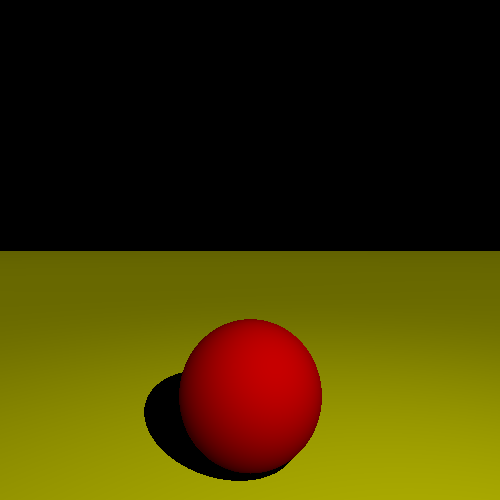
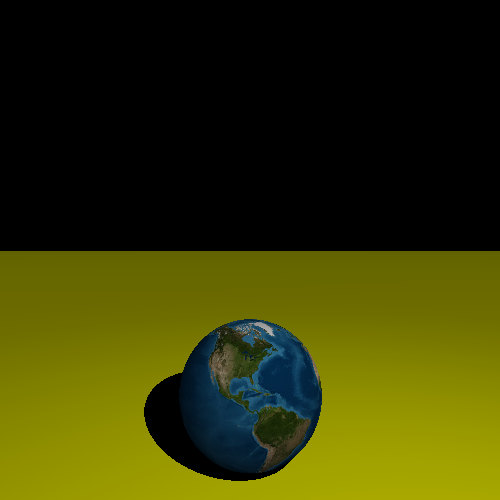
mise à jour avec la texture

Changed region(s): [[0.36, 0.63, 0.66, 0.96]]

diff --git a/sphere.py b/sphere.py
@@ -1,98 +1,124 @@
-from PIL import Image, ImageDraw
-from PIL import Image 
+from PIL import Image
 import numpy as np
 import math
 
-
 class Sphere:
-    def __init__(self, rayon, centre, couleur):
+  def __init__(self, rayon, centre, couleur):
       """
-
-      #==========================================================================================#
-      Une sphère est definie par:
+      Une sphère est définie par :
         un <rayon> (entier)
         un <centre> (l, m, n)
         equation paramétrique: 
-                      (P - C).(P - C) = r² <=> (x - l)² + (y - m)² + (z - n)² = r²
-                      |
-                      --> avec P = (x, y, z) le point du vecteur PC qui est un point du cercle
-      #==========================================================================================#
-      Passage en paramètre de la classe de <draw> pour 
-      pouvoir dessiner dans la bonne image de PIL
-
+                    (P - C).(P - C) = r² <=> (x - l)² + (y - m)² + (z - n)² = r²
+                    |
+                    --> avec P = (x, y, z) le point du vecteur PC qui est un point du cercle
+        Passage en paramètre de la classe de <draw> pour 
+        pouvoir dessiner dans la bonne image de PIL
       """
       self.rayon = rayon
       self.centre = centre
       self.couleur = couleur
-      #self.reflection = reflection
-      
-    def find_intersection(self,pixel_eval,rayon_vue):
+
+  def find_intersection(self, pixel_eval, rayon_vue):
       """
-      
       P -  <=> t²*B*B - 2*t*B * (C - Q) + (C - Q) * (C - Q) - r² = 0
       Il faut résoudre cette équation qui est de la forme:
-            ax² + bx + c = 0
+        ax² + bx + c = 0
       Donc on doit trouver t qui est notre point d'intersection
-            DELTA = b² - 4ac
-            |
-            |
-            ------> a = t²*B*B => Doit être égal à 1
-                    b = -2*t*B * (C - Q)
-                    c = (C - Q) * (C - Q) - r²
-            |
-            |
-            ------> C:= Centre de la sphère
-                    B:= Rayon de vue
-                    Q:= Pixel évalué
-            
-                    SI DELTA = 0:
-                      PAS D'INTERSECTION 
-                    SI DELTA < 0:
-                      t = -b / 2*a
-                    SI DELTA > 0:
-                      t1 = b² + sqrt(DELTA) / 2*a
-                      t2 = b² - sqrt(DELTA) / 2*a             
+        DELTA = b² - 4ac
+        |
+        |
+        ------> a = t²*B*B => Doit être égal à 1
+                b = -2*t*B * (C - Q)
+                c = (C - Q) * (C - Q) - r²
+        |
+        |
+        ------> C:= Centre de la sphère
+                B:= Rayon de vue
+                Q:= Pixel évalué
+        SI DELTA = 0:
+          PAS D'INTERSECTION 
+        SI DELTA < 0:
+          t = -b / 2*a
+        SI DELTA > 0:
+          t1 = b² + sqrt(DELTA) / 2*a
+          t2 = b² - sqrt(DELTA) / 2*a             
       """
       C = self.centre 
       Q = np.array(pixel_eval)
       r = self.rayon
 
       a = np.dot(rayon_vue, rayon_vue)
-      b = 2 * np.dot(rayon_vue,  (Q - C))
+      b = 2 * np.dot(rayon_vue, (Q - C))
       c = np.dot((Q - C), (Q - C)) - (r*r)
 
       delta = b*b  - 4 * a * c
-      #print(a, b, c, delta)
 
       if delta < 0:
-         return None
-      
+          return None
       elif delta == 0:
-         return -b/(2*a)
-      
+          return -b/(2*a)
       else:
-        t1 = (-b + math.sqrt(delta)) / (2 * a)
-        t2 = (-b - math.sqrt(delta)) / (2 * a)
+          t1 = (-b + math.sqrt(delta)) / (2 * a)
+          t2 = (-b - math.sqrt(delta)) / (2 * a)
 
-        # Retourne le point d'intersection le plus proche devant le rayon
-        if t1 >= 0 and t2 >= 0:
-            return pixel_eval + min(t1, t2) * rayon_vue
-        elif t1 >= 0:
-            return pixel_eval + t1 * rayon_vue
-        elif t2 >= 0:
-            return pixel_eval + t2 * rayon_vue
-        else:
-            return None
-    """
-    def draw_sphere(self, intersections):
-        for (x, y), _ in intersections.items():
-            self.draw.point((x, y), fill=self.couleur)
-    """
-    def get_couleur(self):
-       # Retourne la couleur de la sphère
-       return self.couleur
-    
-    def get_normal(self, hit_point):
-        return (hit_point - self.centre)/np.linalg.norm(hit_point - self.centre)
-    
-    
+          # Retourne le point d'intersection le plus proche devant le rayon
+          if t1 >= 0 and t2 >= 0:
+              return pixel_eval + min(t1, t2) * rayon_vue
+          elif t1 >= 0:
+              return pixel_eval + t1 * rayon_vue
+          elif t2 >= 0:
+              return pixel_eval + t2 * rayon_vue
+          else:
+              return None
+
+  def get_couleur(self):
+      # Retourne la couleur de la sphère
+      return self.couleur
+
+  def get_normal(self, hit_point):
+      return (hit_point - self.centre) / np.linalg.norm(hit_point - self.centre)
+
+  def get_sphere_uv(self, p):
+      """
+      p: un point donné sur la sphère de rayon un, centrée à l'origine.
+      u: valeur retournée [0,1] de l'angle autour de l'axe Y à partir de X=-1.
+      v: valeur retournée [0,1] de l'angle de Y=-1 à Y=+1.
+          <1 0 0> donne <0.50 0.50>       <-1  0  0> donne <0.00 0.50>
+          <0 1 0> donne <0.50 1.00>       < 0 -1  0> donne <0.50 0.00>
+          <0 0 1> donne <0.25 0.50>       < 0  0 -1> donne <0.75 0.50>
+      """
+      y = max(-1.0, min(1.0, -p[1]))  # Clamp la valeur de -p[1] dans l'intervalle [-1, 1]
+      theta = math.acos(y)
+      phi = math.atan2(-p[2], p[0]) + math.pi
+
+      u = phi / (2 * math.pi)
+      v = theta / math.pi
+
+      return u, v
+
+class ImageTexture:
+  def __init__(self, filename):
+      self.image = Image.open(filename)
+      self.width, self.height = self.image.size
+
+  def value(self, u, v):
+      if self.height <= 0:
+          return (0, 255, 255)  # Retourne une couleur cyan en cas de problème de chargement de l'image
+
+      u = max(0, min(1, u))  # Clamp les coordonnées de texture dans la plage [0, 1]
+      v = 1.0 - max(0, min(1, v))  # Inverse v pour les coordonnées de l'image
+
+      i = int(u * self.width)
+      j = int(v * self.height)
+      pixel = self.image.getpixel((i, j))
+
+      color_scale = 1.0 / 255.0
+      return tuple(color_scale * channel for channel in pixel)
+
+def earth():
+    earth_texture = ImageTexture("earthmap.jpg")
+
+
+if __name__ == "__main__":
+    earth()

diff --git a/scene.py b/scene.py
@@ -4,6 +4,7 @@ import numpy as np
 
 from camera import Camera
 from sphere import Sphere
+from sphere import ImageTexture
 from plan import Plan
 from lumiere import Lumiere
 
@@ -15,6 +16,7 @@ class Scene:
         self.lumiere = None
         self.largeur = largeur 
         self.hauteur = hauteur
+        self.earth_texture = ImageTexture("earthmap.jpg")
 
     def ajouter_objet(self, objet):
         self.objets.append(objet)
@@ -42,7 +44,8 @@ class Scene:
             for x in range(self.largeur):
                 rayon = self.calculer_rayon(x, y)
                 couleur = self.tracer_rayon(self.camera.position, rayon)
-                draw.point((x, y), fill=tuple(couleur.astype(int)))
+                #draw.point((x, y), fill=tuple(couleur.astype(int)))
+                draw.point((x, y), fill=tuple(int(component) for component in couleur))
 
         image.save("scene.png")
         image.show()
@@ -87,9 +90,21 @@ class Scene:
         #V = np.array(rayon)
         I = Ia * ka + kd * np.dot(lumi, normale) + ks * (np.dot(r_reflechi, rayon) ** 100)
         
-        couleur = np.array(objet.couleur) * I
-        couleur = np.clip(couleur, 0, 255)
-        return couleur.astype(int)
+        # Vérifie si l'objet est une sphère pour appliquer la texture
+        if not isinstance(objet, Plan):
+            # Conversion de la normale en coordonnées sphériques
+            u, v = objet.get_sphere_uv(normale)
+            col = self.earth_texture.value(u, v)
+
+            couleur = np.array(objet.couleur) * I * col
+            couleur = np.clip(couleur, 0, 255)
+        else:
+            #return couleur
+            couleur = np.array(objet.couleur) * I
+            couleur = np.clip(couleur, 0, 255)
+
+        #return couleur.astype(int)
+        return couleur
 
     def est_dans_ombre(self, intersection, objet_ignore):
         direction_lumiere = self.lumiere.direction_from(intersection)
@@ -112,8 +127,8 @@ class Scene:
         # Initialisation de la scène
         scene = Scene(largeur, hauteur)
 
-        sphere1 = Sphere(1, [0, 1, 0], [255, 0, 0])
-        sphere2 = Sphere(0.5, [0, 1, 4], [0, 255, 0])
+        sphere1 = Sphere(1, [0, 1, 0], [255, 255, 255])
+        sphere2 = Sphere(0.5, [0, 1, 4], [255, 255, 255])
         plan = Plan([0, 0, 0], [0, 1, 0], [255, 255, 0])
 
         #Ajout 
